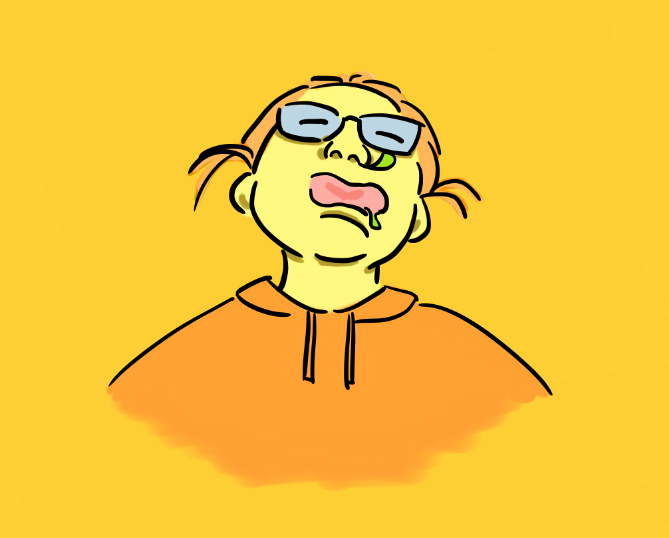
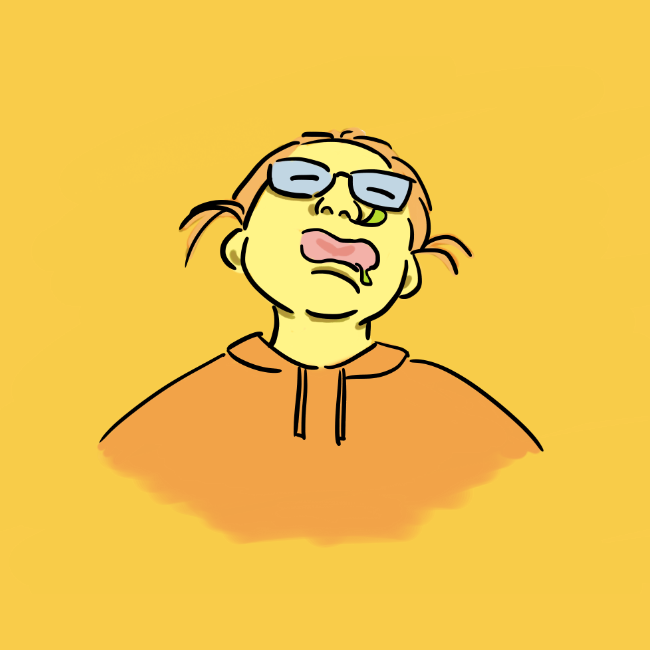
edited index page

Changed region(s): [[0.1538, 0.119, 0.8308, 0.9219]]

diff --git a/index.html b/index.html
@@ -13,17 +13,21 @@ highlights:
   - title: "Cephalopod and Cranium"
     url: "/projects/glass_octopus.html"
     image: "/assets/images/glass/octopus/final.jpg"
+
+  - title: "Junk Journal Vol 1"
+    url: "/projects/junkjournal_v1.html"
+    image: "/assets/images/junkjournal_v1/23.jpg"
 ---
 
 <div class="container py-3 justify-content-center d-grid">
-	<div class="section text-center" id="home-profile">
+	<div class="section text-center mb-4" id="home-profile">
     <div class="row align-items-center g-3">
-      <div class="col-12 col-md-4">
+      <div class="col-12 col-lg-4 col-md-7 mx-auto">
         <div class="h-100 bg-dark">
           <img src="assets/images/yellowme.png" alt="Illustrated portrait of Sophia" decoding="async" class="img-fluid">
         </div>
       </div>
-      <div class="col-12 col-md-8 py-3 px-4">
+      <div class="col-12 col-lg-8 py-3 px-4">
         <h1 class="fw-bold">A Plethora of Projects and Particulars Powered by Procrastination and Personal Peculiarities</h1>
         <p class="lead">(And other pickings beginning with the letter P). My collection of side quests, main quests, journeys, wanderings, and dilly dallyings. I'm Sophia.</p>
         <a href="/projects.html">View Projects →</a> | 
@@ -33,13 +37,14 @@ highlights:
     </div>
 	</div>
 
-  <!-- TODO Fix this ugly ass thing -->
 	<div class="row g-5 justify-content-center text-center py-4">
 		{% for highlight in page.highlights %}
-		<a class="col-3 card p-3 sticky-note text-decoration-none text-dark" href="{{ highlight.url }}">
-			<img src="{{ highlight.image }}" alt="{{ highlight.title }}" decoding="async" class="img-fluid d-block mx-auto mb-2">
-			<span class="fw-bold">{{ highlight.title }}</span>
-		</a>
+    <div class="col-lg-3 col-md-6 col-12">
+      <a class="card p-3 sticky-note text-decoration-none text-dark" href="{{ highlight.url }}">
+        <img src="{{ highlight.image }}" alt="{{ highlight.title }}" decoding="async" class="img-fluid d-block mx-auto mb-2">
+        <span class="fw-bold">{{ highlight.title }}</span>
+      </a>
+    </div>
 		{% endfor %}
 	</div>
 

diff --git a/assets/css/style.css b/assets/css/style.css
@@ -163,17 +163,20 @@ img {
 }
 
 #home-profile {
-	max-width: 1000px;
+	max-width: 1100px;
+	margin: 0 auto;
 }
 /* ===== STICKY NOTES: featured-project cards on the home page (built on the .card hard-shadow style) ===== */
 .sticky-note {
 	background-color: var(--yellow);
 	/* width: 220px; */
+	transform: rotate(var(--tilt, 0deg));
 }
 
-.sticky-note:nth-child(1) { transform: rotate(-4deg); }
-.sticky-note:nth-child(2) { transform: rotate(3deg); }
-.sticky-note:nth-child(3) { transform: rotate(-2deg); }
+.row > div:nth-child(1) .sticky-note { --tilt: -4deg; }
+.row > div:nth-child(2) .sticky-note { --tilt: 3deg; }
+.row > div:nth-child(3) .sticky-note { --tilt: -2deg; }
+.row > div:nth-child(4) .sticky-note { --tilt: 4deg; }
 
 .sticky-note:hover {
 	transform: rotate(0deg) scale(1.05);
